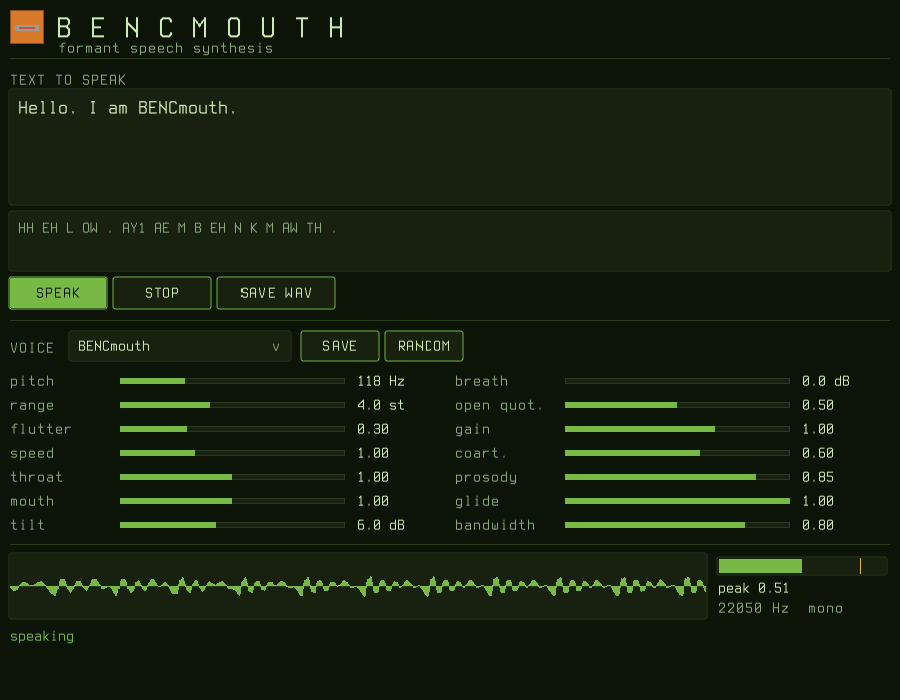
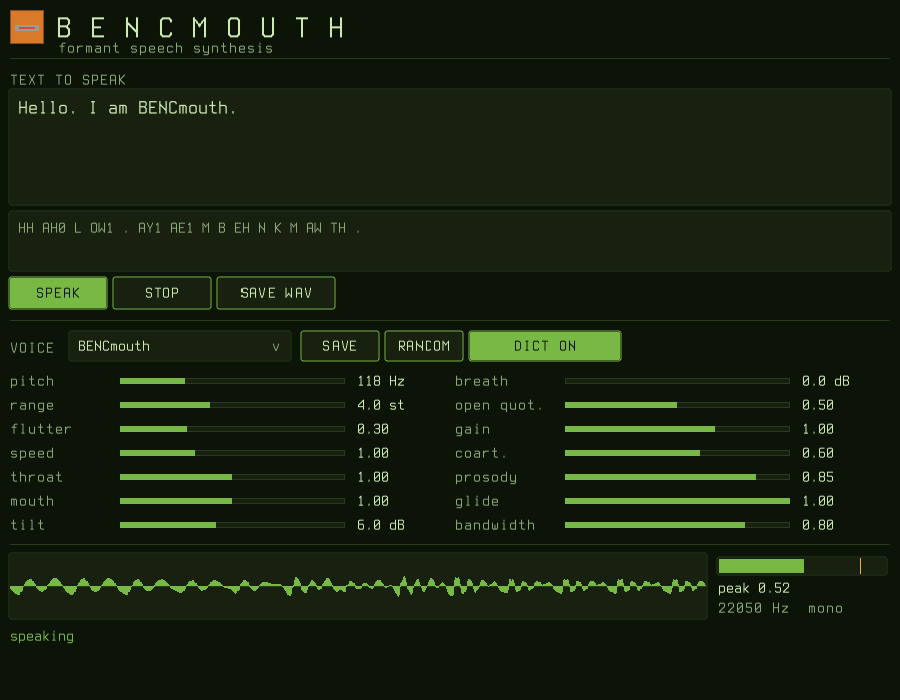
Ship the GUI with the dictionary, and a button to switch it off
The reported symptom: the GUI says "robot" as R AA B AA T. That is the
letter-to-sound rules doing exactly what they are for, on a build that has
no dictionary to consult first - cmudict has R OW1 B AA2 T.

None of the three GUI jobs in ci.yml ran `make dict`, so every artifact
anyone downloaded was the rules-only build. The release workflow got the
dictionary, but only by luck: `make gui` links whatever libbencmouth.a is
lying in the tree, and a previous step happened to leave a dict-enabled one
there. Whether the window pronounced a word correctly came down to which
target had been run last. There is now a `gui-dict` target that says what it
builds, and all six GUI builds across both workflows use it.

The switch itself is runtime, not a rebuild, because the difference is the
interesting part: the rules are what a build for a microcontroller has, and
hearing what they do to a word is how you find the ones worth an exception.
BM_TEXT_NO_DICT skips the lookup, bm_config.use_dict carries it, and
bm_engine_set_dictionary flips it on a live engine. Default on - a
dictionary that is present and unused is a surprise.

The DICT button sits on the voice row and the phoneme readout follows it, so
what is on screen is what SPEAK will say. In a build with no dictionary it
reads NO DICTIONARY and greys out, which is more use than a control that is
simply absent. bm_dict_count() is now public for the same reason: a front
[…]

diff --git a/src/gui/main.c b/src/gui/main.c
@@ -165,6 +165,7 @@ int main(int argc, char **argv)
     const char *voice_names[16];
     int   voice_count = 0, voice_index = 0, voice_open = 0;
     int   i, dirty = 1;
+    int   have_dict = 0, use_dict = 1;
     bm_edit text_st, phon_st;
     Color status_color;
 
@@ -172,6 +173,8 @@ int main(int argc, char **argv)
 
     bm_config_default(&config);
     config.sample_rate = SAMPLE_RATE;
+    have_dict = bm_dict_count() > 0;
+    use_dict  = have_dict;
     config.markup = 1;          /* the GUI is a place to experiment */
     voice = config.voice;
 
@@ -242,8 +245,20 @@ int main(int argc, char **argv)
 #endif
 
     status_color = BM_DIM;
-    snprintf(status, sizeof status, "ready  -  %s%s", ui.font_name,
-             ui.loaded ? "" : "  (no Terminus TTF found)");
+    {
+        /* Say which pronunciation path this build has. Without the dictionary
+         * every word goes through the letter-to-sound rules, which get "robot"
+         * as R AA B AA T - correct for the rules, wrong for the word - and
+         * nothing on screen said so. */
+        int  words = bm_dict_count();
+        char dict[64];
+
+        if (words > 0) snprintf(dict, sizeof dict, "%d-word dictionary", words);
+        else           snprintf(dict, sizeof dict, "no dictionary - rules only");
+
+        snprintf(status, sizeof status, "ready  -  %s%s  -  %s", ui.font_name,
+                 ui.loaded ? "" : "  (no Terminus TTF found)", dict);
+    }
 
     while (!WindowShouldClose()) {
         float W = (float)GetScreenWidth();
@@ -263,8 +278,9 @@ int main(int argc, char **argv)
          * not free, and doing it every frame would be silly. */
         if (dirty) {
             size_t n = 0;
+            unsigned tf = BM_TEXT_MARKUP | (use_dict ? 0u : BM_TEXT_NO_DICT);
             if (bm_text_to_phonemes_ex(text, 0, phonemes, sizeof phonemes, &n,
-                                       BM_TEXT_MARKUP) != BM_OK) {
+                                       tf) != BM_OK) {
                 snprintf(phonemes, sizeof phonemes, "(cannot convert that)");
             }
             dirty = 0;
@@ -333,6 +349,7 @@ int main(int argc, char **argv)
                 size_t cap = 0, len = 0;
 
                 c2.voice = voice;
+                c2.use_dict = use_dict;
                 if (bm_engine_init(&s2, &c2, &e2) == BM_OK &&
                     bm_speak_text(e2, text, 0) == BM_OK) {
                     while (bm_is_speaking(e2)) {
@@ -395,6 +412,21 @@ int main(int argc, char **argv)
                 bm_engine_set_voice(g_engine, &voice);
                 snprintf(status, sizeof status, "random voice, seed %u", seed);
                 status_color = BM_ACCENT;
+            }
+
+            /* Greyed rather than hidden in a build without a dictionary: the
+             * absence is the thing worth knowing, and a control that is simply
+             * missing tells you nothing. */
+            b.x += 84; b.width = 150;
+            if (bm_toggle(&ui, b, have_dict ? (use_dict ? "DICT ON" : "DICT OFF")
+                                            : "NO DICTIONARY",
+                          &use_dict, have_dict)) {
+                bm_engine_set_dictionary(g_engine, use_dict);
+                dirty = 1;
+                snprintf(status, sizeof status, "%s",
+                         use_dict ? "dictionary on"
+                                  : "dictionary off - letter-to-sound rules only");
+                status_color = use_dict ? BM_DIM : BM_AMBER;
             }
         }
         y += 38;

diff --git a/src/core/bm_text.c b/src/core/bm_text.c
@@ -208,7 +208,7 @@ static int is_digit(char c) { return c >= '0' && c <= '9'; }
 
 /* Runs one word through the rules and appends the result. */
 static size_t speak_word(const char *w, size_t len, char *out, size_t cap,
-                         size_t at, bm_result *rc)
+                         size_t at, bm_result *rc, unsigned flags)
 {
     char   phon[MAX_WORD * 6];
     size_t n = 0;
@@ -232,7 +232,7 @@ static size_t speak_word(const char *w, size_t len, char *out, size_t cap,
             size_t start = 0, i = 0;
             for (;; i++) {
                 if (s[i] == ' ' || s[i] == '\0') {
-                    if (i > start) at = speak_word(s + start, i - start, out, cap, at, rc);
+                    if (i > start) at = speak_word(s + start, i - start, out, cap, at, rc, flags);
                     start = i + 1;
                     if (s[i] == '\0') break;
                 }
@@ -243,7 +243,8 @@ static size_t speak_word(const char *w, size_t len, char *out, size_t cap,
 
     /* The dictionary, when one is compiled in. It supplies stress digits,
      * which the rules cannot produce at all. */
-    if (bm_dict_lookup(w, len, phon, sizeof phon, &n) == BM_OK && n > 0) {
+    if ((flags & BM_TEXT_NO_DICT) == 0u &&
+        bm_dict_lookup(w, len, phon, sizeof phon, &n) == BM_OK && n > 0) {
         return put(out, cap, at, phon, ' ');
     }
 
@@ -279,7 +280,8 @@ bm_result bm_text_to_phonemes_ex(const char *text, size_t text_len,
     if (text == 0 || out == 0 || out_cap == 0) return BM_ERR_ARG;
 
 #if !BM_WITH_MARKUP
-    (void)flags;   /* the parser is compiled out; nothing consults it */
+    /* The markup parser is compiled out, but BM_TEXT_NO_DICT still reaches
+     * speak_word, so flags is not unused. */
 #endif
 
     if (text_len == 0) {
@@ -293,7 +295,7 @@ bm_result bm_text_to_phonemes_ex(const char *text, size_t text_len,
         if (is_letter(c)) {
             size_t start = i;
             while (i < text_len && is_letter(text[i])) i++;
-            at = speak_word(text + start, i - start, out, out_cap, at, &rc);
+            at = speak_word(text + start, i - start, out, out_cap, at, &rc, flags);
             if (rc != BM_OK) return rc;
             if (at > out_cap) return BM_ERR_OVERFLOW;
 
@@ -310,7 +312,7 @@ bm_result bm_text_to_phonemes_ex(const char *text, size_t text_len,
             for (;; w++) {
                 if (words[w] == ' ' || words[w] == '\0') {
                     if (w > ws) {
-                        at = speak_word(words + ws, w - ws, out, out_cap, at, &rc);
+                        at = speak_word(words + ws, w - ws, out, out_cap, at, &rc, flags);
                         if (rc != BM_OK) return rc;
                     }
                     ws = w + 1;

diff --git a/include/bencmouth.h b/include/bencmouth.h
@@ -195,6 +195,14 @@ const bm_voice *bm_voice_preset(const char *name);
 
 /* Enumeration, for CLI help and tests. */
 int             bm_voice_preset_count(void);
+
+/* Number of dictionary entries compiled in, or 0 in a build without one.
+ *
+ * Public because a caller cannot otherwise tell, and the difference is
+ * audible: without the dictionary every word goes through the letter-to-sound
+ * rules, which get "robot" as R AA B AA T. A front end that shows which build
+ * it is saves someone diagnosing a pronunciation that is working as designed. */
+int             bm_dict_count(void);
 const bm_voice *bm_voice_preset_at(int index);
 
 /* Applies one `key = value` setting to a voice, for voice files and CLI
@@ -295,6 +303,11 @@ typedef struct bm_config {
      * characters into commands, which would silently swallow text for any
      * caller who did not ask for it. See BM_TEXT_MARKUP. */
     int markup;
+
+    /* Consult the dictionary when one is compiled in. On by default, because a
+     * dictionary that is present and unused is a surprise; turning it off is
+     * how you hear the rules on their own. See BM_TEXT_NO_DICT. */
+    int use_dict;
 } bm_config;
 
 void bm_config_default(bm_config *config);
@@ -311,6 +324,11 @@ void bm_engine_reset(bm_engine *engine);
 /* Swaps the voice mid-stream. Takes effect at the next phoneme boundary,
  * so it will not click. */
 bm_result bm_engine_set_voice(bm_engine *engine, const bm_voice *voice);
+
+/* Turns the dictionary on or off on a live engine. Takes effect on the next
+ * bm_speak_text(); an utterance already queued is unaffected. Harmless in a
+ * build without a dictionary, where the rules are the only path either way. */
+bm_result bm_engine_set_dictionary(bm_engine *engine, int enabled);
 
 /* ------------------------------------------------------------------ *
  * Speaking
@@ -367,6 +385,15 @@ bm_result bm_text_to_phonemes(const char *text, size_t text_len,
  * ------------------------------------------------------------------ */
 
 #define BM_TEXT_MARKUP 0x01u
+
+/* Skip the dictionary and send every word through the letter-to-sound rules.
+ *
+ * A switch rather than a rebuild because the difference is the interesting
+ * part: the rules are what a build for a microcontroller has, and hearing what
+ * they do to a word - "robot" as R AA B AA T - is how you find the words that
+ * need an exception. No effect in a build without a dictionary, where the
+ * rules are the only path anyway. */
+#define BM_TEXT_NO_DICT 0x02u
 
 /* As bm_text_to_phonemes(), with behaviour flags. Passing 0 is identical to
  * the plain call, which is what that call does. */

diff --git a/tests/test_dict.c b/tests/test_dict.c
@@ -104,6 +104,44 @@ static void test_present_build(void)
         check(strstr(phon, "ER1") != 0, "primary stress reaches the phoneme stream");
         check(strstr(phon, "AH0") != 0, "unstressed vowels are marked too");
     }
+
+    printf("\n  BM_TEXT_NO_DICT switches the dictionary off at runtime\n");
+    {
+        char with[512], without[512];
+        size_t a = 0, b = 0;
+
+        bm_text_to_phonemes_ex("robot", 0, with, sizeof with, &a, 0u);
+        bm_text_to_phonemes_ex("robot", 0, without, sizeof without, &b,
+                               BM_TEXT_NO_DICT);
+        printf("    dictionary: %s\n    rules:      %s\n", with, without);
+
+        /* The word this was reported against. The rules see two syllables and
+         * no reason to make either of them OW. */
+        check(strstr(with, "OW") != 0, "the dictionary rounds the first vowel");
+        check(strstr(without, "OW") == 0, "the rules do not");
+        check(strcmp(with, without) != 0, "the flag actually changes the answer");
+
+        /* Stress digits come from the dictionary only, so their absence is a
+         * second, independent signal that the rules ran. */
+        check(strstr(without, "1") == 0 && strstr(without, "0") == 0,
+              "no stress digits survive with the dictionary off");
+    }
+
+    printf("\n  and the engine honours config.use_dict\n");
+    {
+        bm_engine_storage st;
+        bm_engine *e = 0;
+        bm_config cfg;
+
+        bm_config_default(&cfg);
+        check(cfg.use_dict == 1, "the dictionary is on by default");
+
+        cfg.use_dict = 0;
+        check(bm_engine_init(&st, &cfg, &e) == BM_OK, "an engine with it off starts");
+        check(bm_speak_text(e, "robot", 0) == BM_OK, "and speaks");
+        check(bm_engine_set_dictionary(e, 1) == BM_OK, "it can be switched back on");
+        check(bm_engine_set_dictionary(0, 1) == BM_ERR_ARG, "and rejects a null engine");
+    }
 }
 
 int main(void)

diff --git a/src/gui/bm_ui.c b/src/gui/bm_ui.c
@@ -157,6 +157,32 @@ int bm_button(const bm_ui *ui, Rectangle r, const char *label, int enabled)
     return enabled && over && IsMouseButtonReleased(MOUSE_BUTTON_LEFT);
 }
 
+int bm_toggle(const bm_ui *ui, Rectangle r, const char *label, int *on,
+              int enabled)
+{
+    Vector2 m = GetMousePosition();
+    int over = enabled && mouse_free(ui) && CheckCollisionPointRec(m, r);
+    int hit  = over && IsMouseButtonReleased(MOUSE_BUTTON_LEFT);
+    Color fill, text;
+    float w;
+
+    if (!enabled)     { fill = BM_PANEL; text = BM_BORDER; }
+    else if (*on)     { fill = BM_ACCENT; text = BM_BG; }
+    else if (over)    { fill = BM_EDGE;  text = BM_TEXT; }
+    else              { fill = BM_PANEL; text = BM_DIM; }
+
+    DrawRectangleRounded(r, BM_RADIUS / r.height, 4, fill);
+    DrawRectangleRoundedLines(r, BM_RADIUS / r.height, 4,
+                              enabled ? BM_ACCENT : BM_BORDER);
+
+    w = bm_text_measure(ui, BM_FONT_SMALL, label, 1.0f);
+    bm_text_spaced(ui, BM_FONT_SMALL, label, r.x + (r.width - w) * 0.5f,
+                   r.y + (r.height - BM_FONT_SMALL) * 0.5f, text);
+
+    if (hit) *on = !*on;
+    return hit;
+}
+
 int bm_slider(const bm_ui *ui, Rectangle r, const char *label,
               float *value, float lo, float hi, const char *fmt)
 {

diff --git a/src/host/main.c b/src/host/main.c
@@ -18,6 +18,19 @@
 
 #define CHUNK 4096
 
+/* Which pronunciation path this build has. Without the dictionary every word
+ * goes through the letter-to-sound rules, which get "robot" as R AA B AA T -
+ * correct for the rules and wrong for the word. Worth saying out loud rather
+ * than leaving someone to deduce it from what they hear. */
+static const char *dict_line(void)
+{
+    static char buf[64];
+    int n = bm_dict_count();
+    if (n <= 0) return "letter-to-sound rules only (build with `make dict`)";
+    snprintf(buf, sizeof buf, "%d-word dictionary, then the rules", n);
+    return buf;
+}
+
 static void usage(void)
 {
     printf(
@@ -41,6 +54,7 @@ static void usage(void)
 "  -h           this help\n"
 "\n"
 "audio backend: %s\n"
+"pronunciation: %s\n"
 "\n"
 "examples:\n"
 "  bm \"hello world\" -o hello.wav\n"
@@ -50,7 +64,7 @@ static void usage(void)
 "  bm -m \"normal. [pitch 70][speed 0.8] and now slow.\"\n"
 "  bm -a \"straight out of the speakers\"\n"
 "  bm -R 4242 -w found.voice   # keep a random voice you liked\n",
-        bm_audio_backend());
+        bm_audio_backend(), dict_line());
 }
 
 int main(int argc, char **argv)

diff --git a/src/core/bm_engine.c b/src/core/bm_engine.c
@@ -155,6 +155,13 @@ bm_result bm_speak_phonemes(bm_engine *engine, const char *phonemes, size_t len)
     return BM_OK;
 }
 
+bm_result bm_engine_set_dictionary(bm_engine *engine, int enabled)
+{
+    if (engine == 0) return BM_ERR_ARG;
+    engine->config.use_dict = enabled ? 1 : 0;
+    return BM_OK;
+}
+
 bm_result bm_speak_text(bm_engine *engine, const char *text, size_t len)
 {
     size_t    n = 0;
@@ -164,7 +171,8 @@ bm_result bm_speak_text(bm_engine *engine, const char *text, size_t len)
 
     rc = bm_text_to_phonemes_ex(text, len, engine->phonemes,
                                 sizeof engine->phonemes, &n,
-                                engine->config.markup ? BM_TEXT_MARKUP : 0u);
+                                (engine->config.markup ? BM_TEXT_MARKUP : 0u) |
+                                (engine->config.use_dict ? 0u : BM_TEXT_NO_DICT));
     if (rc != BM_OK) return rc;
     if (n == 0) return BM_ERR_ARG;
 

diff --git a/src/gui/bm_gui.h b/src/gui/bm_gui.h
@@ -119,6 +119,11 @@ void  bm_divider(float x, float y, float w);
 void  bm_label(const bm_ui *ui, const char *s, float x, float y);
 
 int   bm_button(const bm_ui *ui, Rectangle r, const char *label, int enabled);
+
+/* A button that stays pressed. Filled when on, outlined when off - the state
+ * is the fill, so it reads at a glance rather than only from the label. */
+int   bm_toggle(const bm_ui *ui, Rectangle r, const char *label, int *on,
+                int enabled);
 int   bm_slider(const bm_ui *ui, Rectangle r, const char *label,
                 float *value, float lo, float hi, const char *fmt);
 int   bm_dropdown(bm_ui *ui, Rectangle r, const char **items, int count,

diff --git a/src/core/bm_dict.h b/src/core/bm_dict.h
@@ -57,8 +57,7 @@ extern const unsigned int  BM_DICT_BLOCK_PHONE[];
 bm_result bm_dict_lookup(const char *word, size_t len,
                          char *out, size_t out_cap, size_t *out_len);
 
-/* Number of entries compiled in, or 0 when built without the dictionary.
- * Lets a caller report which build it is without preprocessor games. */
-int bm_dict_count(void);
+/* bm_dict_count() is declared in bencmouth.h: front ends need it, and they are
+ * not allowed in here. */
 
 #endif /* BM_DICT_H */

diff --git a/src/core/bm_voice.c b/src/core/bm_voice.c
@@ -290,7 +290,8 @@ void bm_config_default(bm_config *config)
      * Below about 16 kHz the top formant folds and vowels lose their edge. */
     config->sample_rate = 22050u;
     config->frame_rate = 100u;
-    config->markup = 0;      /* brackets are ordinary text unless asked for */
+    config->markup = 0;
+    config->use_dict = 1;      /* brackets are ordinary text unless asked for */
     bm_voice_default(&config->voice);
 }
 

diff --git a/README.md b/README.md
@@ -466,15 +466,24 @@ const pcm = bm.say('hello world');         // or just the Float32Array
 ### The GUI
 
 ```
-make gui          # or: RAYLIB=/some/prefix make gui
+make gui-dict     # the GUI, with the CMU dictionary compiled in
+make gui          # without it - smaller, letter-to-sound rules only
 ./bencmouth-gui              # optionally: ./bencmouth-gui 1400x760
 ```
+
+`make gui` and `make gui-dict` differ in one thing that you can hear. Without the
+dictionary every word goes through the letter-to-sound rules, which get *robot* as
+`R AA B AA T` — two flat vowels, no stress. With it, `R OW1 B AA2 T`. The DICT button
+switches between the two at runtime so you can hear the difference on any word, which
+is also how you find the ones worth adding to the exception list; it greys out in a
+build that has no dictionary to switch to. The status line says which build you have.
 
 Type, and the phoneme readout under the field updates as you go. Both panels wrap and
 scroll — mouse wheel or the bar on the right — so a paragraph is as workable as a
 sentence. The text box is a real text box: click to put the caret anywhere, drag or
 shift-arrow to select, Ctrl-A/C/X/V (Cmd on macOS), Ctrl-arrow by word, Home and End,
-and a right-click menu for the same. Every slider is bound to a `.voice` file key, so
+and a right-click menu for the same. The phoneme readout follows the DICT button, so
+what you see is what SPEAK will say. Every slider is bound to a `.voice` file key, so
 what you tune and what SAVE writes cannot drift apart. Audio streams from `bm_read()`
 into the audio callback, so moving a slider mid-sentence is audible immediately.
 
